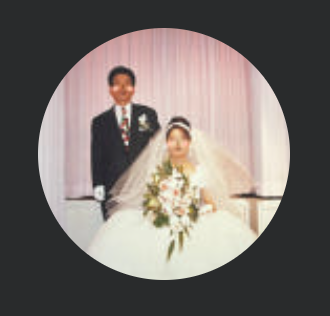
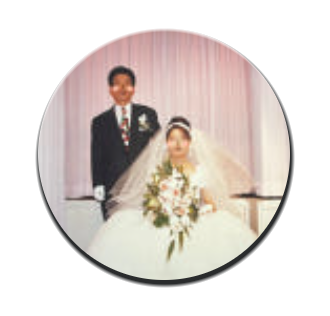
Adjust header spacing and announcement color

diff --git a/src/style.css b/src/style.css
@@ -10,13 +10,13 @@
 
 :root { --ink:#22201c; --paper:#f7f5f0; --line:#dcd8d0; --muted:#77736b; --accent:#b65d58; font-family:'Pretendard',sans-serif; color:var(--ink); background:var(--paper); font-synthesis:none; }
 * { box-sizing:border-box; } html { scroll-behavior:smooth; } body { margin:0; } a { color:inherit; text-decoration:none; } button { font:inherit; color:inherit; background:none; border:0; cursor:pointer; }
-.announcement { height:31px; display:flex; align-items:center; justify-content:center; gap:12px; position:fixed; top:0; left:0; right:0; z-index:30; background:#302d29; color:#f6f3ed; font:10px/1 'Pretendard',sans-serif; letter-spacing:.06em; }.announcement button { font-size:16px; line-height:1; color:#ddd7ce; }
+.announcement { height:31px; display:flex; align-items:center; justify-content:center; gap:12px; position:fixed; top:0; left:0; right:0; z-index:30; background:#d98fa3; color:#fff; font:10px/1 'Pretendard',sans-serif; letter-spacing:.06em; }.announcement button { font-size:16px; line-height:1; color:#fff; }
 .header { height:88px; padding:0 3.5vw; display:flex; align-items:center; justify-content:space-between; position:fixed; top:31px; left:0; right:0; z-index:29; color:#fff; background:#282a2a; box-shadow:0 10px 30px rgba(0,0,0,.12); }.logo { font:600 23px/1 'Pretendard',sans-serif; letter-spacing:-.09em; }.header-logo { display:flex; align-items:center; width:150px; height:72px; overflow:hidden; letter-spacing:0; }.header-logo img { display:block; width:100%; height:auto; }.logo span { color:#fff; font-size:28px; }.desktop-nav { display:flex; gap:35px; margin-left:10vw; }.desktop-nav a,.header-actions a { font:500 10px 'Pretendard',sans-serif; letter-spacing:.04em; }.header-actions { display:flex; align-items:center; gap:22px; }.header-actions span{ color:rgba(255,255,255,.78); }.search { font:26px/1 'Pretendard',sans-serif; transform:rotate(-20deg); color:#fff; }.menu { display:none; width:24px; padding:4px 0; }.menu i { display:block; height:1px; margin:5px 0; background:#fff; }
-.hero { min-height:calc(100vh - 119px); padding:0 8vw 5vw; display:grid; grid-template-columns:1.02fr .98fr; gap:5vw 0; position:relative; overflow:hidden; }.main-hero-image { grid-column:1/-1; width:100vw; margin-left:calc(50% - 50vw); margin-right:calc(50% - 50vw); overflow:hidden; background:#e4dfd4; }.main-hero-image img { display:block; width:100%; height:clamp(260px,24vw,520px); object-fit:cover; object-position:center; }.hero-copy { align-self:center; z-index:1; }.eyebrow { margin:0 0 17px; color:var(--muted); font:500 10px/1.4 'Pretendard',sans-serif; letter-spacing:.08em; }.hero h1,.statement h2,.section-heading h2,.custom h2,.journal h2 { margin:0; font:400 clamp(38px,4.2vw,65px)/1.24 'Pretendard',sans-serif; letter-spacing:-.08em; }.hero h1 em,.statement h2 em { font-family:'Pretendard',sans-serif; font-style:normal; letter-spacing:-.06em; }.intro { margin:30px 0; color:#55514a; font:14px/1.85 'Pretendard',sans-serif; letter-spacing:-.04em; }.arrow-link { font:500 11px 'Pretendard',sans-serif; letter-spacing:.04em; display:inline-flex; gap:17px; align-items:center; border-bottom:1px solid var(--ink); padding-bottom:9px; }.arrow-link b { font:18px/10px 'Pretendard',sans-serif; font-weight:400; }
+.hero { min-height:calc(100vh - 119px); padding:119px 8vw 5vw; display:grid; grid-template-columns:1.02fr .98fr; gap:5vw 0; position:relative; overflow:hidden; }.main-hero-image { grid-column:1/-1; width:100vw; margin-left:calc(50% - 50vw); margin-right:calc(50% - 50vw); overflow:hidden; background:#e4dfd4; }.main-hero-image img { display:block; width:100%; height:clamp(260px,24vw,520px); object-fit:cover; object-position:center; }.hero-copy { align-self:center; z-index:1; }.eyebrow { margin:0 0 17px; color:var(--muted); font:500 10px/1.4 'Pretendard',sans-serif; letter-spacing:.08em; }.hero h1,.statement h2,.section-heading h2,.custom h2,.journal h2 { margin:0; font:400 clamp(38px,4.2vw,65px)/1.24 'Pretendard',sans-serif; letter-spacing:-.08em; }.hero h1 em,.statement h2 em { font-family:'Pretendard',sans-serif; font-style:normal; letter-spacing:-.06em; }.intro { margin:30px 0; color:#55514a; font:14px/1.85 'Pretendard',sans-serif; letter-spacing:-.04em; }.arrow-link { font:500 11px 'Pretendard',sans-serif; letter-spacing:.04em; display:inline-flex; gap:17px; align-items:center; border-bottom:1px solid var(--ink); padding-bottom:9px; }.arrow-link b { font:18px/10px 'Pretendard',sans-serif; font-weight:400; }
 .hero-visual { height:min(42vw,570px); min-height:460px; margin:0 0 0 3vw; position:relative; background:#d5d4c9; overflow:hidden; }.photo-visual { display:grid; place-items:center; background:#ece7dc; }.photo-visual img { display:block; width:100%; height:100%; object-fit:contain; }.hero-scroll { position:absolute; left:3.5vw; bottom:25px; font:500 9px 'Pretendard',sans-serif; color:var(--muted); letter-spacing:.05em; }.hero-scroll span { margin-left:8px; font-size:15px; }
 .statement { padding:170px 6vw 160px; text-align:center; background:#ebe7dc; }.statement h2 { margin-bottom:32px; }.statement > p:last-child { color:#615c53; font:14px/1.9 'Pretendard',sans-serif; letter-spacing:-.04em; }
 .collection { padding:130px 3.5vw 150px; }.section-heading { display:flex; justify-content:space-between; align-items:end; margin:0 4.5vw 60px; }.section-heading h2,.journal h2 { font-family:'Pretendard',sans-serif; letter-spacing:-.06em; }.product-grid { display:grid; grid-template-columns:repeat(4,1fr); gap:18px; }.product-art { height:30vw; max-height:440px; position:relative; overflow:hidden; display:flex; align-items:center; justify-content:center; }.art-number { position:absolute; top:18px; left:18px; font:500 10px 'Pretendard',sans-serif; z-index:2; }.product-art.peony { background:#d6bfc0; }.product-art.blue { background:#bccbd1; }.product-art.cream { background:#e2d4c1; }.product-art.rose { background:#c99e9b; }.product-art:before { content:''; position:absolute; width:135%; height:70%; border-radius:50%; bottom:-37%; background:rgba(255,255,255,.26); }.invite-card { z-index:1; width:56%; aspect-ratio:.68; padding:13% 8%; display:flex; flex-direction:column; align-items:center; color:#4d4438; box-shadow:10px 14px 20px rgba(77,59,49,.13); transform:rotate(-5deg); }.peony .invite-card { background:#f7efe9; }.blue .invite-card { background:#edf0ec; }.cream .invite-card { background:#f7f0e2; }.rose .invite-card { background:#faebe6; }.mini-mark { font:500 7px 'Pretendard',sans-serif; letter-spacing:.1em; }.invite-title { margin:auto 0; text-align:center; font:500 21px/1.1 'Pretendard',sans-serif; }.invite-date { font:500 6px 'Pretendard',sans-serif; }.product-info { padding:17px 1px 0; display:flex; justify-content:space-between; align-items:start; gap:10px; }.product-info p { margin:0 0 6px; font-size:13px; }.product-info small { color:var(--muted); font:11px 'Pretendard',sans-serif; }.product-info strong { font:500 10px 'Pretendard',sans-serif; font-weight:400; white-space:nowrap; }
 .custom { padding:120px 13%; background:#d9d4c8; display:grid; grid-template-columns:1fr 1fr; gap:12%; align-items:center; }.custom-visual { height:480px; background:#b9b3a5; position:relative; display:grid; place-items:center; overflow:hidden; }.custom-visual:before,.custom-visual:after { content:''; position:absolute; width:110%; height:60px; background:rgba(248,245,237,.27); transform:rotate(-38deg); }.custom-visual:before { top:18%; }.custom-visual:after { bottom:18%; }.custom-card { z-index:1; width:48%; aspect-ratio:.69; background:#f8f5ed; display:flex; flex-direction:column; justify-content:center; align-items:center; color:#4b5147; box-shadow:15px 18px 20px rgba(49,44,36,.18); }.custom-card span,.custom-card small { font:500 8px 'Pretendard',sans-serif; letter-spacing:.1em; }.custom-card strong { font:600 42px 'Pretendard',sans-serif; margin:25% 0; }.wax-seal { z-index:2; position:absolute; bottom:13%; right:20%; width:42px; height:42px; display:grid; place-items:center; border-radius:50%; background:#a95d55; color:#f3e1d8; font:600 21px 'Pretendard',sans-serif; }.custom-copy h2 { margin-bottom:28px; }.custom-copy > p:not(.eyebrow) { margin:0 0 35px; color:#5d584f; font:14px/1.9 'Pretendard',sans-serif; }.dark-button { display:inline-flex; align-items:center; gap:40px; padding:16px 18px; background:#292722; color:#fff; font:500 10px 'Pretendard',sans-serif; letter-spacing:.04em; }.dark-button span { font-size:17px; }
 .journal { padding:145px 8vw; }.journal h2 { margin-bottom:54px; }.journal-grid { border-top:1px solid var(--ink); }.journal-grid a { display:grid; grid-template-columns:10% 1fr auto; gap:20px; align-items:center; padding:24px 0; border-bottom:1px solid var(--line); transition:padding .25s; }.journal-grid a:hover { padding-left:12px; }.journal-grid span,.journal-grid b { font:500 10px 'Pretendard',sans-serif; font-weight:400; }.journal-grid strong { font:400 18px 'Pretendard',sans-serif; letter-spacing:-.05em; }
 footer { padding:60px 3.5vw 25px; background:#292722; color:#e9e5db; }.footer-top { display:grid; grid-template-columns:1fr 1fr auto; align-items:start; padding-bottom:100px; }.footer-top .logo { font-size:25px; }.footer-logo { display:flex; align-items:center; width:150px; height:72px; overflow:hidden; letter-spacing:0; }.footer-logo img { display:block; width:100%; height:auto; }.footer-top p { margin:0; color:#bbb5aa; font:14px/1.8 'Pretendard',sans-serif; }.instagram { font:500 10px 'Pretendard',sans-serif; border-bottom:1px solid #bbb5aa; padding-bottom:7px; }.footer-bottom { padding-top:20px; border-top:1px solid #57534b; display:flex; justify-content:space-between; color:#a8a297; font:500 8px 'Pretendard',sans-serif; letter-spacing:.03em; }
-@media (max-width:760px) { .announcement { font-size:8px; }.header { height:67px; padding:0 20px; }.logo{font-size:20px}.desktop-nav,.header-actions a,.search { display:none; }.menu { display:block; }.hero { min-height:auto; padding:0 20px 90px; display:flex; flex-direction:column; gap:55px; }.main-hero-image { margin-bottom:-10px; }.main-hero-image img { height:clamp(190px,46vw,300px); }.hero h1,.statement h2,.custom h2 { font-size:38px; }.intro { font-size:13px; }.hero-visual { margin:0; width:100%; height:112vw; min-height:0; }.hero-scroll { left:20px; bottom:29px; }.statement { padding:100px 20px; }.statement > p:last-child { font-size:13px; }.collection { padding:85px 20px; }.section-heading { margin:0 0 36px; }.section-heading h2,.journal h2 { font-size:40px; }.product-grid { grid-template-columns:repeat(2,1fr); gap:28px 12px; }.product-art { height:52vw; }.product-info { display:block; }.product-info strong { display:block; margin-top:10px; }.custom { padding:75px 20px; grid-template-columns:1fr; gap:48px; }.custom-visual { height:106vw; }.custom-copy > p:not(.eyebrow) { font-size:13px; }.journal { padding:90px 20px; }.journal-grid a { grid-template-columns:32px 1fr auto; }.journal-grid strong { font-size:15px; }.footer-top { grid-template-columns:1fr; gap:35px; padding-bottom:60px; }.footer-bottom { display:flex; flex-direction:column; gap:10px; }.footer-bottom span:last-child { display:none; } }
+@media (max-width:760px) { .announcement { font-size:8px; }.header { height:67px; padding:0 20px; }.logo{font-size:20px}.desktop-nav,.header-actions a,.search { display:none; }.menu { display:block; }.hero { min-height:auto; padding:98px 20px 90px; display:flex; flex-direction:column; gap:55px; }.main-hero-image { margin-bottom:-10px; }.main-hero-image img { height:clamp(190px,46vw,300px); }.hero h1,.statement h2,.custom h2 { font-size:38px; }.intro { font-size:13px; }.hero-visual { margin:0; width:100%; height:112vw; min-height:0; }.hero-scroll { left:20px; bottom:29px; }.statement { padding:100px 20px; }.statement > p:last-child { font-size:13px; }.collection { padding:85px 20px; }.section-heading { margin:0 0 36px; }.section-heading h2,.journal h2 { font-size:40px; }.product-grid { grid-template-columns:repeat(2,1fr); gap:28px 12px; }.product-art { height:52vw; }.product-info { display:block; }.product-info strong { display:block; margin-top:10px; }.custom { padding:75px 20px; grid-template-columns:1fr; gap:48px; }.custom-visual { height:106vw; }.custom-copy > p:not(.eyebrow) { font-size:13px; }.journal { padding:90px 20px; }.journal-grid a { grid-template-columns:32px 1fr auto; }.journal-grid strong { font-size:15px; }.footer-top { grid-template-columns:1fr; gap:35px; padding-bottom:60px; }.footer-bottom { display:flex; flex-direction:column; gap:10px; }.footer-bottom span:last-child { display:none; } }